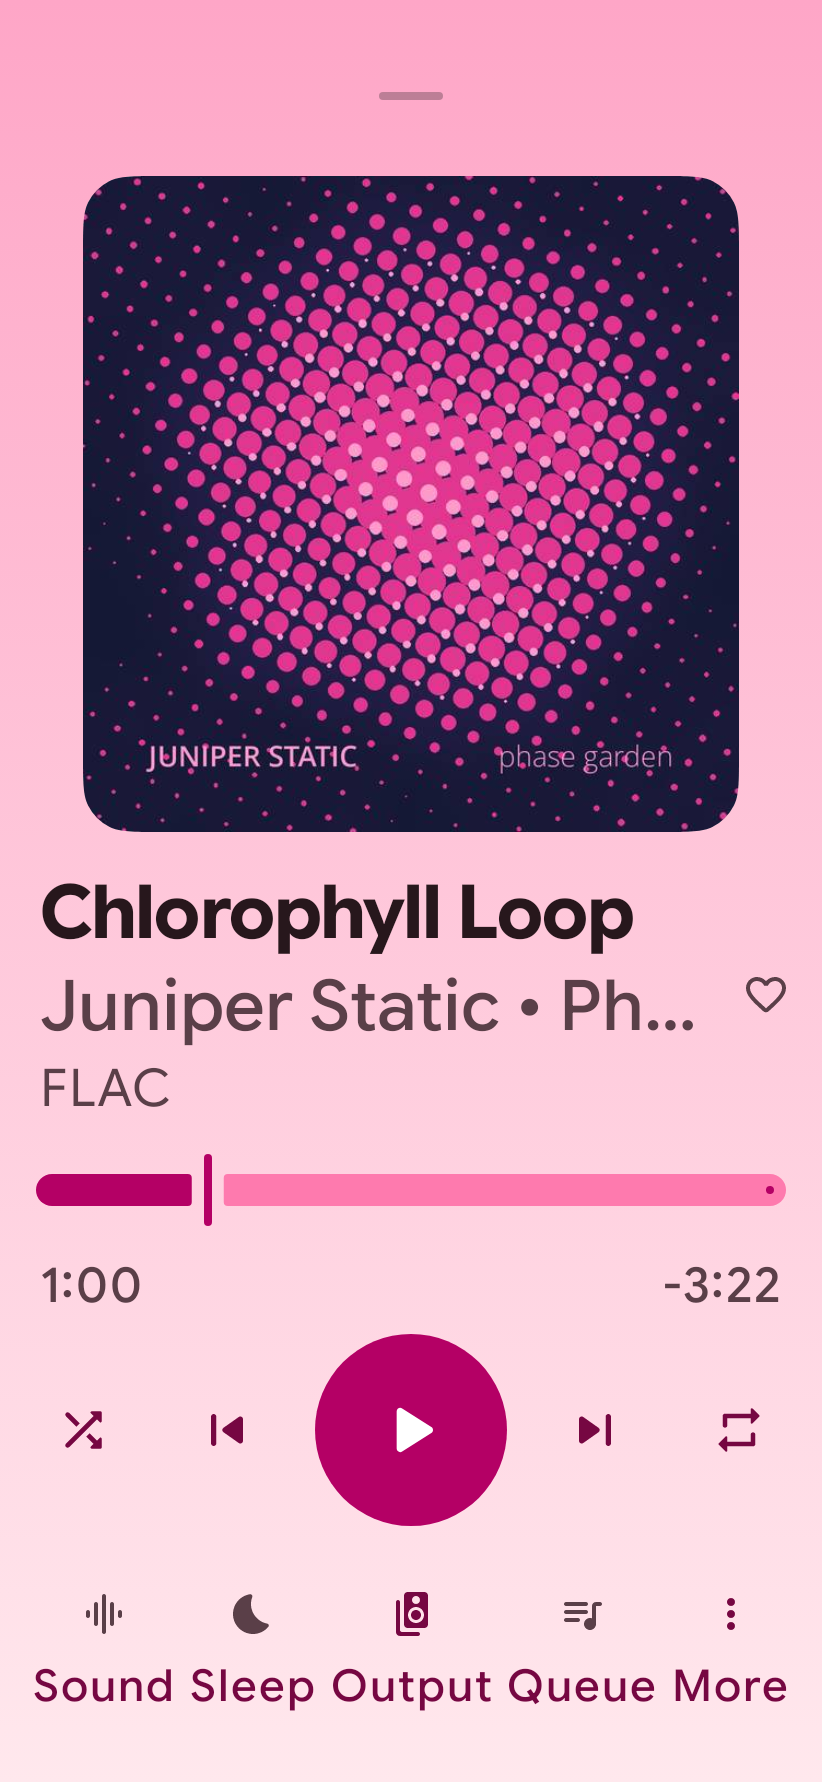
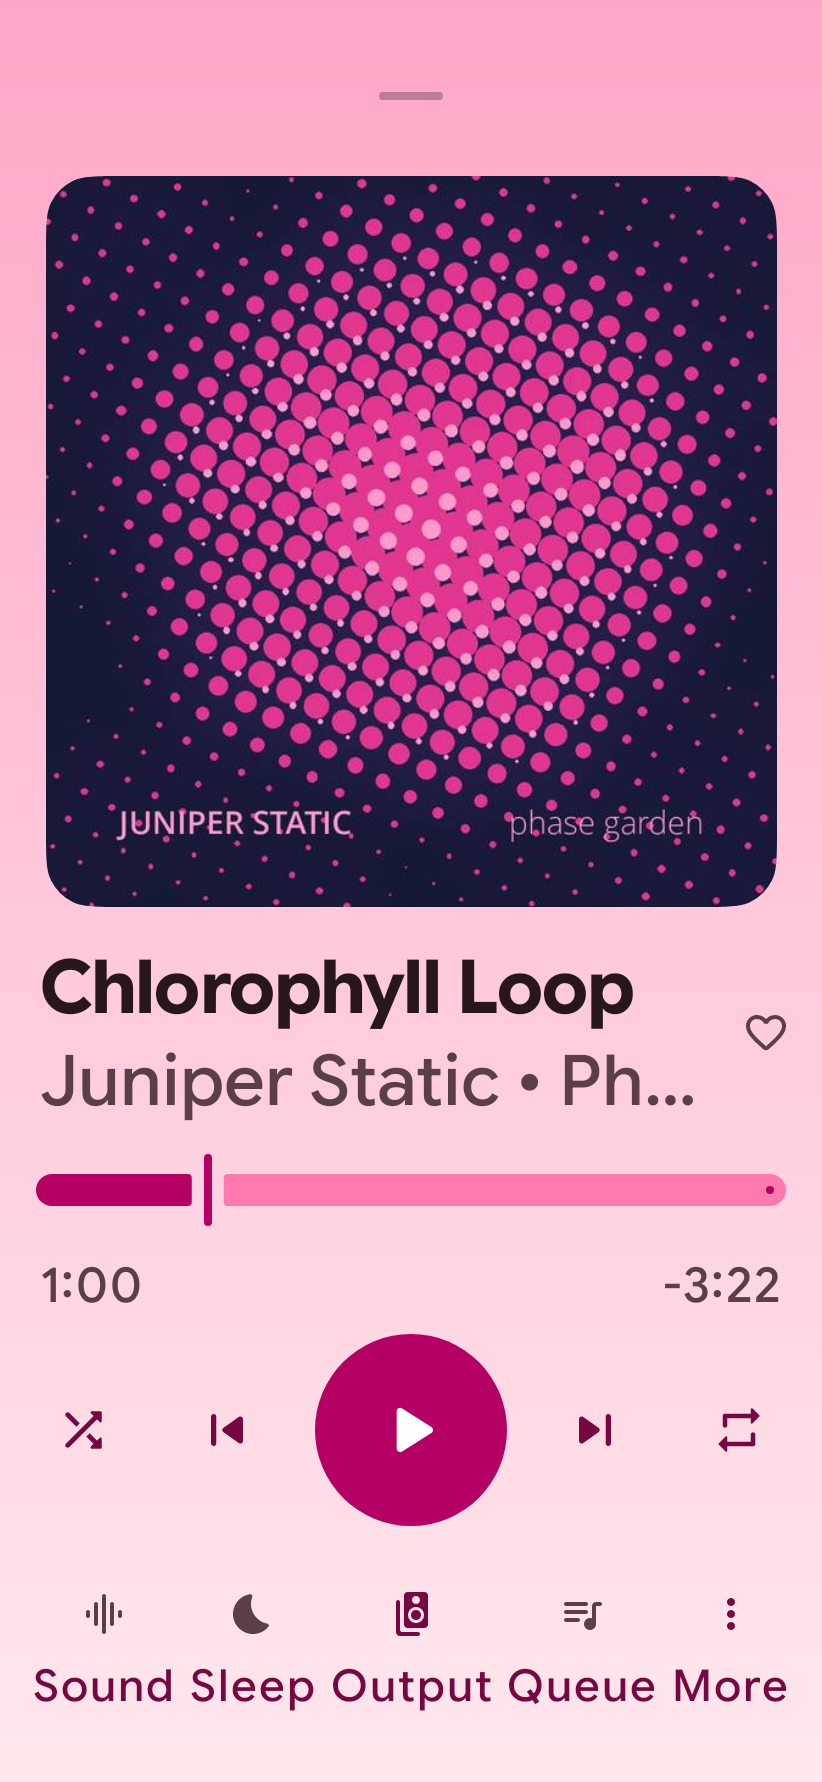
fix(app): keep the song title visible at large text
The title wraps to two lines and the quality line gives way, so the player
still says what is playing above the open queue.

Closes #1003

Changed region(s): [[0.0304, 0.0926, 0.9428, 0.6481], [0.9124, 0.5556, 0.9732, 0.5864]]

diff --git a/android/app/src/main/java/com/simplecityapps/shuttle/ui/shell/player/NowPlaying.kt b/android/app/src/main/java/com/simplecityapps/shuttle/ui/shell/player/NowPlaying.kt
@@ -51,6 +51,7 @@ import com.simplecityapps.shuttle.designsystem.component.S2SeekBar
 import com.simplecityapps.shuttle.designsystem.theme.S2Spacing
 import com.simplecityapps.shuttle.designsystem.theme.S2TouchTarget
 import com.simplecityapps.shuttle.designsystem.theme.artworkRole
+import com.simplecityapps.shuttle.designsystem.theme.isLargeText
 
 /** The name of the Cast device playback plays on, or null while it plays on this one. */
 @Composable
@@ -129,9 +130,11 @@ internal fun NowPlayingTitle(
     modifier: Modifier = Modifier,
 ) {
     val current = player.current
+    // At large text the title wraps and the quality line gives way, so what's playing stays readable.
+    val largeText = isLargeText()
     Row(modifier.fillMaxWidth().padding(start = S2Spacing.medium + S2Spacing.xsmall, end = S2Spacing.small, bottom = S2Spacing.small), verticalAlignment = Alignment.CenterVertically) {
         Column(Modifier.weight(1f)) {
-            Text(text = current?.title.orEmpty(), style = MaterialTheme.typography.headlineMediumEmphasized, maxLines = 1, overflow = TextOverflow.Ellipsis)
+            Text(text = current?.title.orEmpty(), style = MaterialTheme.typography.headlineMediumEmphasized, maxLines = if (largeText) 2 else 1, overflow = TextOverflow.Ellipsis)
             Text(
                 text = listOfNotNull(current?.artist, current?.album).joinToString(" • "),
                 style = MaterialTheme.typography.titleLarge,
@@ -142,7 +145,7 @@ internal fun NowPlayingTitle(
             val castingTo = player.castingTo()
             if (castingTo != null) {
                 S2PlayingOn(castingTo, style = MaterialTheme.typography.bodyMedium)
-            } else {
+            } else if (!largeText) {
                 current?.song?.qualityLine(player.delivered)?.let { quality ->
                     Text(text = quality, style = MaterialTheme.typography.bodyMedium, color = MaterialTheme.colorScheme.onSurfaceVariant, maxLines = 1, overflow = TextOverflow.Ellipsis)
                 }
